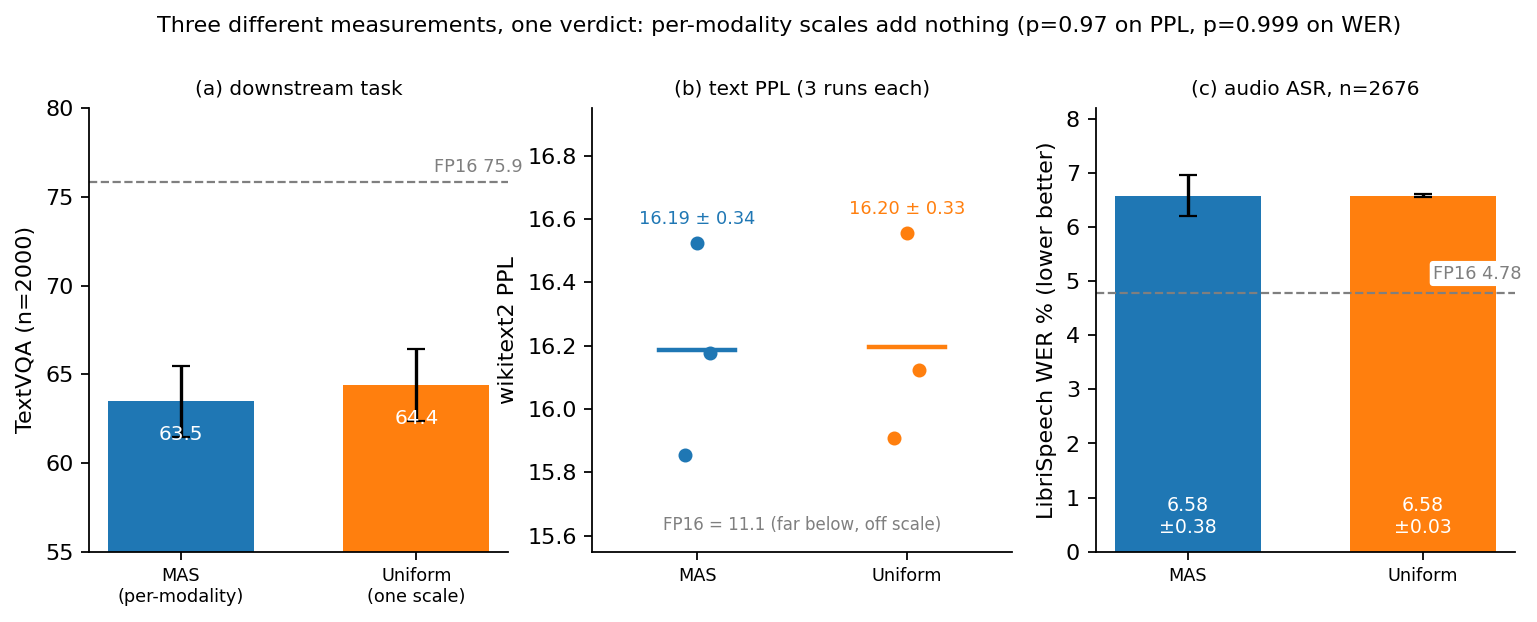
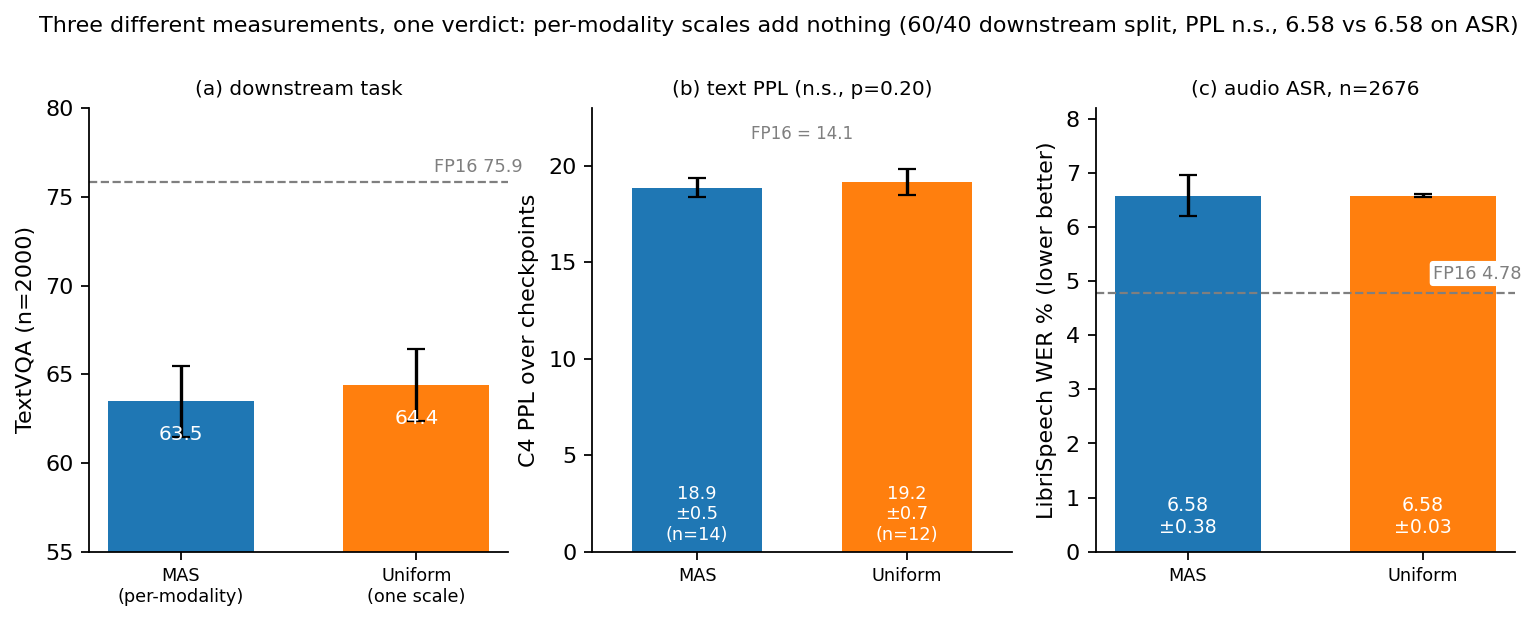
Slides: fix caliber mismatch on P4, add B200 figures, align PPL panel and attribution
Teammate caught fig2_main_bench.png being 8xRTX / ScienceQA 2017 while the talk uses
4xB200 / SQA 2000. Audit found two more instances of the same class of problem.

fig13_bench_b200.png (new, P4): FP16 / SQ / MAS / uniform on SQA 2000 + TextVQA 2000
  with 95% bootstrap CI, from results/bench_b200/boot_b200_4.json. Replaces fig2 on
  stage; fig2 stays as the report's caliber-B figure.
fig14_solver_textvqa.png (new, P7 money chart): same checkpoint, only the solver
  changes - MAS 63.5 -> 70.9 (GPTQ) -> 71.0 (+clip), uniform 64.4 -> 73.5, FP16 75.8,
  all doc_id<2000. Attribution drawn on the chart (GPTQ +7.4, clip +0.1).
fig8 panel (b) was the RTX 0.75-ratio matched PPL pair (16.19 vs 16.20, p=0.97) ->
  now B200 C4 over checkpoints (18.88 +- 0.50 n=14 vs 19.16 +- 0.69 n=12, p=0.20).

Attribution numbers corrected with them: on the 2000-item caliber GPTQ alone is +7.4
(not the 5000-item +7.2) and clip adds +0.1 (not 0.3). The earlier "clip +0.3" mixed
the two subsets; abstract and conclusion 4 in the written report are corrected.
Section 7.1 gains the B200 C4 tie numbers, which were previously only in the
reproducibility note.

Talk script gains a caliber audit table (which figure may go on stage, which may not)
and the self-check forbids fig2 on stage.

diff --git a/tools/make_slides_figs_b200.py b/tools/make_slides_figs_b200.py
@@ -1,0 +1,129 @@
+"""汇报 PPT 的"口径 A（4×B200、SQA 2000 + TextVQA 2000、doc_id<2000）"图。
+
+这些图与 docs/figs/fig2_main_bench.png（报告版，8×RTX、SQA 2017）**不是同一口径**，
+所以单独出，不要混用。
+
+  fig13_bench_b200.png     P4：复现（FP16 / SQ / MAS / 统一 scale，全量 2000 题 + 95% CI）
+  fig14_solver_textvqa.png P7 钱图：同一 checkpoint 上 RTN → GPTQ → +clip 的 TextVQA（含 FP16 线）
+
+数据来源（都已落盘，脚本只读不再训练）：
+  results/bench_b200/boot_b200_4.json      FP16 / SQ / MAS / 统一 scale
+  results/gptq/boot_solver_2000.json       RTN vs GPTQ vs clip（doc_id<2000）
+  results/gptq/bench/*/samples_*.jsonl     GPTQ-only 的逐样本（用于 2000 子集）
+
+用法: python tools/make_slides_figs_b200.py --outdir docs/figs
+"""
+import argparse
+import json
+import os
+
+import matplotlib
+
+matplotlib.use("Agg")
+import matplotlib.pyplot as plt  # noqa: E402
+import numpy as np  # noqa: E402
+
+plt.rcParams.update({"font.size": 10, "axes.spines.top": False, "axes.spines.right": False,
+                     "savefig.dpi": 160, "savefig.bbox": "tight"})
+C_MAIN, C_ALT, C_FP16, C_SOLVER = "#1f77b4", "#ff7f0e", "#7f7f7f", "#2ca02c"
+
+
+def acc_subset(path, lim=2000):
+    """从逐样本 jsonl 算 doc_id<lim 的准确率。"""
+    n = s = 0
+    for line in open(path):
+        d = json.loads(line)
+        if int(d["doc_id"]) >= lim:
+            continue
+        n += 1
+        s += float(d["exact_match"])
+    return 100 * s / n
+
+
+def fig13(outdir):
+    d = json.load(open("results/bench_b200/boot_b200_4.json"))
+    rows = [("fp16", "FP16", C_FP16), ("sq", "SmoothQuant\n+ RTN", "#d62728"),
+            ("mas", "MAS\n(per-modality)", C_MAIN), ("uni", "Uniform scale\n(one scale)", C_ALT)]
+    fig, ax = plt.subplots(1, 2, figsize=(9.6, 3.8))
+    for a, task, title in zip(ax, ("scienceqa_img", "textvqa_val"),
+                              ("ScienceQA-IMG (n=2000)", "TextVQA (n=2000)")):
+        t = d[task]
+        for i, (k, lab, c) in enumerate(rows):
+            v = t[k]
+            m, ci = 100 * v["acc"], [100 * x for x in v["ci"]]
+            a.bar(i, m, 0.62, color=c, yerr=[[m - ci[0]], [ci[1] - m]], capsize=4)
+            a.text(i, ci[0] - 1.5, f"{m:.1f}", ha="center", fontsize=9)
+        a.set_xticks(range(len(rows)))
+        a.set_xticklabels([r[1] for r in rows], fontsize=8)
+        a.set_title(title, fontsize=10)
+        a.set_ylim(min(100 * t[k]["ci"][0] for k, _, _ in rows) - 5, 86 if task == "scienceqa_img" else 82)
+        if task == "scienceqa_img":
+            a.set_ylabel("accuracy %")
+    fig.suptitle("W4A8 on 4×B200, full 2000-item test sets (paired bootstrap CI)",
+                 fontsize=10, y=1.03)
+    for a, lo in zip(ax, (68, 55)):
+        a.text(0.01, 0.02, f"y-axis from {lo}", transform=a.transAxes, fontsize=7, color="#777777")
+    fig.text(0.5, -0.06,
+             "MAS beats SmoothQuant by +3.4 / +2.4 (both significant)   ·   "
+             "but W4A8 is still behind FP16 by 2.2 / 12.4 (both significant)",
+             ha="center", fontsize=9)
+    p = os.path.join(outdir, "fig13_bench_b200.png")
+    fig.savefig(p)
+    plt.close(fig)
+    return p
+
+
+def fig14(outdir):
+    """P7 钱图：同一个 MAS checkpoint，只换权重求解器。全部 doc_id<2000。"""
+    boot = json.load(open("results/gptq/boot_solver_2000.json"))["textvqa_val"]
+    mas_gptq = acc_subset("results/gptq/bench/mas_gptq/samples_textvqa_val.jsonl")
+    fp16 = 100 * boot["fp16"]["acc"]
+    mas_rtn = 100 * boot["mas_rtn"]["acc"]
+    mas_clip = 100 * boot["mas_clip"]["acc"]
+    uni_rtn = 100 * boot["uni_rtn"]["acc"]
+    uni_clip = 100 * boot["uni_clip"]["acc"]
+
+    bars = [("MAS\n+ RTN", mas_rtn, "#9fc0dc"), ("MAS\n+ GPTQ", mas_gptq, C_SOLVER),
+            ("MAS\n+ GPTQ\n+ clip", mas_clip, "#1a7a1a"),
+            ("Uniform\n+ RTN", uni_rtn, "#f7c39a"), ("Uniform\n+ GPTQ\n+ clip", uni_clip, "#d9600c")]
+    fig, ax = plt.subplots(figsize=(8.6, 4.0))
+    for i, (lab, m, c) in enumerate(bars):
+        ax.bar(i, m, 0.64, color=c, edgecolor="none")
+        ax.text(i, m + 0.7, f"{m:.1f}", ha="center", fontsize=9.5)
+    ax.axhline(fp16, ls="--", lw=1, color="k")
+    ax.text(4.45, fp16 + 0.6, f"FP16 {fp16:.1f}", ha="right", fontsize=8.5)
+    ax.set_xticks(range(len(bars)))
+    ax.set_xticklabels([b[0] for b in bars], fontsize=8.5)
+    ax.set_ylim(55, 82)
+    ax.set_ylabel("TextVQA accuracy % (doc_id < 2000)")
+    # 归因：GPTQ 是主贡献，clip 几乎不贡献（箭头画在柱子上方，不压柱）
+    ytop = mas_gptq + 4.2
+    ax.annotate("", xy=(1, ytop), xytext=(0, ytop),
+                arrowprops=dict(arrowstyle="-|>", color=C_SOLVER, lw=1.6))
+    ax.text(0.5, ytop + 0.8, f"GPTQ {mas_gptq - mas_rtn:+.1f}", ha="center",
+            color=C_SOLVER, fontsize=11, weight="bold")
+    ax.annotate("", xy=(2, ytop), xytext=(1, ytop),
+                arrowprops=dict(arrowstyle="-|>", color="#555555", lw=1.2))
+    ax.text(1.5, ytop - 1.6, f"clip {mas_clip - mas_gptq:+.1f}", ha="center", fontsize=9, color="#333333")
+    fig.text(0.5, -0.05,
+             f"MAS: {mas_rtn:.1f} → {mas_clip:.1f}   (GPTQ {mas_gptq - mas_rtn:+.1f}, clip {mas_clip - mas_gptq:+.1f})"
+             f"   ·   gap to FP16 {fp16 - mas_rtn:.1f} → {fp16 - mas_clip:.1f}"
+             f"   ·   y-axis from 55",
+             ha="center", fontsize=8.8)
+    ax.set_title("Same checkpoint, only the weight solver changes — GPTQ is where the gain comes from",
+                 fontsize=10)
+    p = os.path.join(outdir, "fig14_solver_textvqa.png")
+    fig.savefig(p)
+    plt.close(fig)
+    return p, dict(mas_rtn=mas_rtn, mas_gptq=mas_gptq, mas_clip=mas_clip, uni_rtn=uni_rtn,
+                   uni_clip=uni_clip, fp16=fp16)
+
+
+if __name__ == "__main__":
+    ap = argparse.ArgumentParser()
+    ap.add_argument("--outdir", default="docs/figs")
+    a = ap.parse_args()
+    os.makedirs(a.outdir, exist_ok=True)
+    print(fig13(a.outdir))
+    p, nums = fig14(a.outdir)
+    print(p, {k: round(v, 2) for k, v in nums.items()})

diff --git a/tools/make_slides_figs.py b/tools/make_slides_figs.py
@@ -85,22 +85,19 @@ def fig8(outdir):
     a.set_ylabel("TextVQA (n=2000)")
     a.set_title("(a) downstream task", fontsize=9)
 
-    # (b) wikitext2 PPL，逐次重复
+    # (b) C4 PPL，B200 口径（14 vs 12 个 checkpoint，p=0.20）
     a = ax[1]
-    runs = {"MAS": [15.855, 16.5254, 16.1764], "Uniform": [15.9094, 16.5555, 16.1219]}
-    for i, (k, vs) in enumerate(runs.items()):
-        c = C_MAIN if i == 0 else C_ALT
-        a.scatter(np.full(len(vs), i) + np.linspace(-0.06, 0.06, len(vs)), vs, s=28, color=c, zorder=3)
-        a.plot([i - 0.18, i + 0.18], [np.mean(vs)] * 2, color=c, lw=2)
-        a.text(i, max(vs) + 0.06, f"{np.mean(vs):.2f} \u00b1 {np.std(vs, ddof=1):.2f}",
-               ha="center", fontsize=8, color=c)
+    rows = [("MAS", 18.88, 0.50, 14, C_MAIN), ("Uniform", 19.16, 0.69, 12, C_ALT)]
+    for i, (lab, m, sd, n, c) in enumerate(rows):
+        a.bar(i, m, 0.62, color=c, yerr=sd, capsize=4)
+        a.text(i, 0.6, f"{m:.1f}\n\u00b1{sd:.1f}\n(n={n})", ha="center", color="white", fontsize=8)
     a.set_xticks([0, 1])
     a.set_xticklabels(["MAS", "Uniform"], fontsize=8)
     a.set_xlim(-0.5, 1.5)
-    a.set_ylim(15.55, 16.95)
-    a.set_ylabel("wikitext2 PPL")
-    a.set_title("(b) text PPL (3 runs each)", fontsize=9)
-    a.text(0.5, 15.62, "FP16 = 11.1 (far below, off scale)", ha="center", fontsize=7.5, color=C_FP16)
+    a.set_ylim(0, 23)
+    a.set_ylabel("C4 PPL over checkpoints")
+    a.set_title("(b) text PPL (n.s., p=0.20)", fontsize=9)
+    a.text(0.5, 21.4, "FP16 = 14.1", ha="center", fontsize=7.5, color=C_FP16)
 
     # (c) 音频 WER
     a = ax[2]
@@ -118,7 +115,7 @@ def fig8(outdir):
     a.set_title("(c) audio ASR, n=2676", fontsize=9)
 
     fig.suptitle("Three different measurements, one verdict: per-modality scales add nothing "
-                 "(p=0.97 on PPL, p=0.999 on WER)", fontsize=10, y=1.04)
+                 "(60/40 downstream split, PPL n.s., 6.58 vs 6.58 on ASR)", fontsize=10, y=1.04)
     p = os.path.join(outdir, "fig8_three_ties.png")
     fig.savefig(p)
     plt.close(fig)

diff --git a/tools/acc_from_samples.py b/tools/acc_from_samples.py
@@ -1,0 +1,32 @@
+"""从逐样本 jsonl 直接算某个配置在 TextVQA/SQA 上的准确率（同一批 doc_id、同一口径）。
+
+用法: python tools/acc_from_samples.py results/gptq/bench/mas_gptq/samples_textvqa_val.jsonl
+"""
+import json
+import sys
+
+
+def score(x):
+    for k in ("exact_match", "acc", "score", "correct", "accuracy"):
+        if k in x:
+            v = x[k]
+            if isinstance(v, bool):
+                return float(v)
+            if isinstance(v, (int, float)):
+                return float(v)
+            if isinstance(v, (list, tuple)) and v and isinstance(v[0], (int, float, bool)):
+                return float(v[0])
+            if isinstance(v, str):
+                try:
+                    return float(json.loads(v)[0])
+                except Exception:
+                    return float(v) if v.replace(".", "").isdigit() else 0.0
+    return 0.0
+
+
+for p in sys.argv[1:]:
+    n = s = 0
+    for line in open(p):
+        n += 1
+        s += score(json.loads(line))
+    print(f"{p}\tn={n}\tacc={100 * s / n:.2f}")

diff --git a/docs/汇报文稿_8分钟.md b/docs/汇报文稿_8分钟.md
@@ -99,7 +99,7 @@
 ### 2.0 页面视觉清单（先看这张表，再看逐页讲稿）
 
 > 原则：**一页 = 一张图 + 一行不超过 15 字的字**。数字只留 1~2 个、且画在图上，不写进正文。
-> 表格一律不上台（P4 由 `fig2` 替代，P5 由 `fig8` 替代），表格放备用页或手卡。
+> 表格一律不上台（P4 由 `fig13` 替代，P5 由 `fig8` 替代），表格放备用页或手卡。
 >
 > 图都在 `docs/figs/`，可直接拖进 PPT；生成脚本 `tools/make_slides_figs.py` + `tools/make_figures.py`。
 
@@ -108,17 +108,39 @@
 | P1 | 无（纯文字，结论前置） | `瓶颈不在「分模态」` | 25s |
 | P2 | `fig7_why_one_scale.png` | `离群通道不是同一批 → 一套缩放迁就不了两边` | 45s |
 | P3 | 手绘两栏（MAS / CMC），不出图 | `两招：分模态平滑 · 低秩补偿` | 40s |
-| P4 | `fig2_main_bench.png` | `复现成功，但没追平 FP16` | 30s |
+| P4 | **`fig13_bench_b200.png`** | `复现成功，但没追平 FP16` | 30s |
 | P5 | **`fig8_three_ties.png`** | `三处测量，同一个结论` | 50s |
 | P6 | **`fig12_calib_b200.png`** + 右下小图 `fig10_audio_calib.png` | `要的是多样性，不是某一种模态的比例` | 55s |
-| P7 | `fig11_two_knobs.png` → `fig5_solver_ppl.png` → `fig6_calib_gptq.png` | `两个旋钮，+7.5 点` | 155s |
+| P7 | `fig11_two_knobs.png` → **`fig14_solver_textvqa.png`** → `fig6_calib_gptq.png` | `两个旋钮，+7.5 点` | 155s |
 | P8 | 无（三行清单，每行一个数字） | `其余三条` | 40s |
 | P9 | 无（大字 + 一句部署建议） | `一份权重、零旁路` | 40s |
+
+**⚠ 口径审计（每张图都要对得上"口径 A = 4×B200、SQA 2000 + TextVQA 2000"）**
+
+| 图 | 口径 | 能不能上台 |
+|---|---|---|
+| `fig13_bench_b200.png` | B200，SQA 2000 / TVQA 2000 | **能（P4 就用这张）** |
+| ~~`fig2_main_bench.png`~~ | **8×RTX，SQA 2017** | **不能**，只属于报告 §3（口径 B）；与 P4 的数字差 0.2~0.5 点，会当场对不上 |
+| `fig8_three_ties.png` | 面板 a、c 是 B200 / Omni；面板 b 已改成 B200 C4 PPL | **能** |
+| `fig12_calib_b200.png` | B200（19.1→17.4 / 20.4→18.9） | **能** |
+| `fig14_solver_textvqa.png` | B200，TextVQA `doc_id<2000`（63.5→70.9→71.0） | **能（P7 钱图）** |
+| `fig5_solver_ppl.png`、`fig6_calib_gptq.png` | B200 的 GPTQ 实验，C4 PPL（FP16 锚点 14.05 跨机器逐位一致） | 能，但**只能讲 PPL，不要和 benchmark 的数字并列念** |
+| `fig7_why_one_scale.png` | 模型的激活统计（与机器基本无关，FP16 前向跨机器差 5e-5） | 能 |
+| `fig1_calib_ratio.png`、`fig3_breakdown.png`、`fig4_sqnr.png` | **RTX 口径**（fig1 是比例扫描曲线、fig3 是 SQA 2017） | **不上台**，备用/追问 |
+| `fig9`、`fig10` | Omni / LibriSpeech（另一个模型，单独口径） | 能，但**不与 VL 的数字混着念** |
+
+> 一句话口径纪律：**P4 / P5 / P7 只念 B200 的数字；音频只说"另一个模型上也成立"，不报跨模型的差。**
 
 **P6 用 `fig12`，不用 `fig1`**：`fig1` 是报告版（8×RTX 机器、7 个比例点，wikitext 16.2 那个平台），
 而本稿 P6 口播用的是 B200 口径（19.1 → 17.4），两个数字对不上会被当场发现。
 `fig12_calib_b200.png` 就是同一结论的 B200 版本（原校准 vs 混合校准，各带 std），**台上只用它**；
 `fig1` 留作报告插图与"比例扫描是宽平台"的追问材料。
+
+**页面图（2026-11-26 加，B200 口径）**
+- `fig13_bench_b200.png`：P4 用。FP16 / SmoothQuant / MAS / 统一 scale，SQA 2000 + TextVQA 2000，带 95% CI。
+  **替代 `fig2_main_bench.png`**（那张是 8×RTX + SQA 2017，属报告口径 B）。
+- `fig14_solver_textvqa.png`：P7 钱图。同一个 checkpoint 只换求解器：MAS 63.5 → +GPTQ 70.9 → +clip 71.0，
+  另配 uniform 64.4 → 73.5，FP16 线 75.8。归因直接画在图上（GPTQ +7.4、clip +0.1）。
 
 **三张新图（2026-11-25 加）**
 - `fig7_why_one_scale.png`：真实 `act_scales`，第 6 层 `mlp.up_proj` 的逐通道最大激活。
@@ -192,8 +214,8 @@
 
 ### P4 · 复现（30s）
 
-**页面**：整页放 **`fig2_main_bench.png`**（左 ScienceQA、右 TextVQA，带 95% CI）。
-页脚一行字：`复现成功，但没追平 FP16`。**上台不要放表格。**
+**页面**：整页放 **`fig13_bench_b200.png`**（B200 口径，左 ScienceQA 2000、右 TextVQA 2000，带 95% CI）。
+页脚一行字：`复现成功，但没追平 FP16`。**上台不要放表格，也不要用报告里的 `fig2`（那是另一台机器、SQA 2017 题）。**
 
 **口播**：
 
@@ -266,8 +288,12 @@
 `TextVQA 63.5 → 71.0（+7.5）· 与 FP16 差 12.4 → 4.9 · 格式不变、推理零开销`
 （fig11 底部已经画好这一条，PPT 上不必再重复写一遍。）
 
-**切图节奏**：讲"两个旋钮"时停在 `fig11_two_knobs.png`；讲完码字侧三级台阶后切 `fig5_solver_ppl.png`
-（各平滑方式 × 求解器的 C4 PPL）；最后收口切 `fig6_calib_gptq.png`（原校准 vs 混合校准下 GPTQ 的效果）。
+**切图节奏**：讲"两个旋钮"时停在 `fig11_two_knobs.png`；说完码字侧三级台阶后切 **`fig14_solver_textvqa.png`**
+（同一个 checkpoint 只换求解器：63.5 → 70.9 → 71.0，FP16 线在 75.8）；最后收口切 `fig6_calib_gptq.png`
+（原校准 vs 混合校准下 GPTQ 的效果）。
+
+> `fig5_solver_ppl.png`（各平滑方式 × 求解器的 C4 PPL）**改成备用**：它讲的是"换求解器不改变平滑方式的排序"，
+> 属于收口用的旁证，不是钱图；时间紧就跳过，被问"是不是只在 TextVQA 上有效"再翻出来。
 
 **口播（按这个顺序，这是全稿最重要的一段）**：
 
@@ -286,8 +312,8 @@
 >
 > 所以两个旋钮各有各的工具：**步长交给 clip，码字交给 GPTQ。**
 >
-> 结果是 TextVQA 从 63.5 到 71.0。**这 7.5 点是 GPTQ 自己给出的**——单独上 GPTQ 就有 7.2（全量 5000 题）；
-> clip 再补不到 0.3 点。**cd 我们做了、也留了开关，但下游没有一致收益，所以默认关闭**：
+> 结果是 TextVQA 从 63.5 到 71.0。**这 7.5 点是 GPTQ 自己给出的**——单独上 GPTQ 就到 70.9（+7.4）；
+> clip 只再加 0.1。**cd 我们做了、也留了开关，但下游没有一致收益，所以默认关闭**：
 > 它的价值是把码字这一侧推到 1-opt，告诉我们"再往上改码字不值"，**不是它带来了这些点**。
 > 与 FP16 的差距从 12.4 缩到 4.9，格式没变、推理零开销。
 >
@@ -431,7 +457,8 @@ SmoothQuant / RTN 直接崩。所以 P9 **不主动列未完成清单**，收口
 **两件千万别做的事**：
 1. 把 cd 讲成「我们试了一个新算法，效果一般」——它的价值是**结构性的**：把码字侧推到 1-opt，
    证明"再往上（2-opt）不值"，不是下游收益。
-2. **把 +7.5 说成 cd 的功劳**。实测：GPTQ 单独 +7.2（全量 5000 题），+clip 到 +7.5，cd 下游无一致收益、默认关。
+2. **把 +7.5 说成 cd 的功劳**。实测（2000 题口径）：GPTQ 单独 +7.4，clip 再 +0.1，cd 下游无一致收益、默认关
+   （5000 题口径是 +7.2 / +0.5，结论相同）。
    听众若从"RTN → GPTQ → +cd"的台阶顺势以为 7.5 是最后一级给的，一追问就崩。
 
 正确说法是「**RTN 到 GPTQ 是质变，clip 是补刀，GPTQ 到 1-opt 是收尾，再往上就不值了**」。
@@ -484,8 +511,8 @@ SmoothQuant / RTN 直接崩。所以 P9 **不主动列未完成清单**，收口
 | Q4 | **GPTQ 不是已有方法吗？创新在哪？** | 见 §4.6。**两个自由度的框架 + 三个多模态设计问题 + 反直觉结论（原校准上 9/9 更差）。** |
 | Q5 | **为什么只用 3B？** | **官方示例脚本默认就是 3B**。3B 单卡一轮 5~7 分钟，我们才能做一百多次独立训练来支撑重复与显著性检验；7B 会降到十几次，做不了检验。代价是外推受限，写在局限里。 |
 | Q6 | **为什么只有两个 benchmark？** | **评测链路限制**：MMMU 需要外部 judge，OCRBench 的聚合指标在现有调用路径下拿不到。**我们选的是「两个但全量 + 配对检验」，不是「多但只跑 10%」。** |
-| **Q7** | **cd 有没有端到端收益？** | **没有一致收益，我们默认不开**（PPL 上也没稳定变好）。价值在结构上：它把码字这一侧推到 1-opt，说明**再往上（2-opt）就不值了**。**+7.5 里 7.2 是 GPTQ 给的**，clip 补不到 0.3，cd 的贡献是 0。 |
-| Q7c | **那 +7.5 到底是谁给的？** | **GPTQ**。同一 checkpoint、同一校准集，只把 RTN 换成 GPTQ，TextVQA 63.5 → 70.9（+7.2，全量 5000 题）；再加 clip 到 71.0（+7.5）；cd 在这个基础上没有再增益。 |
+| **Q7** | **cd 有没有端到端收益？** | **没有一致收益，我们默认不开**（PPL 上也没稳定变好）。价值在结构上：它把码字这一侧推到 1-opt，说明**再往上（2-opt）就不值了**。**+7.5 里 7.4 是 GPTQ 给的**，clip 加 0.1，cd 的贡献是 0。 |
+| Q7c | **那 +7.5 到底是谁给的？** | **GPTQ**。同一 checkpoint、同一校准集，只把 RTN 换成 GPTQ，TextVQA 63.5 → 70.9（**+7.4**）；再加 clip 到 71.0（+0.1，合计 +7.5）；cd 在这个基础上没有再增益。换 5000 题口径做同一实验是 +7.2（62.3 → 69.6），结论一致。 |
 | Q7b | **你们有过失败的改进吗？** | **有**：我们做过 CMC 的按层自适应秩，只在 PPL 上验证。后来补下游才发现 PPL 根本不经过视觉旁路；实测它显著更差，已经撤回，理由写在报告里。 |
 | Q8 | **NVFP4 下为什么 GPTQ 没用？** | **16 元素块缩放已经把权重误差吸收掉了**，RTN 本身就接近 FP16。所以这套求解器改进针对的是 INT 的 per-channel 粗粒度格点。 |
 | Q9 | **能推广到别的模型吗？** | **跨模态验证过，跨规模没验证**：换到 Qwen2.5-Omni-3B 的音频上，归因（打平）、校准（文本占比一改就有收益）、求解器（与 FP16 只差 0.4 点）三条都成立；7B 没测。 |
@@ -522,10 +549,10 @@ SmoothQuant / RTN 直接崩。所以 P9 **不主动列未完成清单**，收口
 - [ ] P4 → P5 的转场有一句「那 MAS 比 SmoothQuant 高的这 3 点多，到底哪儿来的」，**不要跳过**
 - [ ] P7 开场先说「只有两个自由度」，再分左右两栏，**顺序不要倒**
 - [ ] P7 的台阶是三级（RTN / GPTQ / +cd），末句落在「再往上不值，我们停在 1-opt」
-- [ ] P7 **明确说出**：+7.5 里 GPTQ 占 7.2，cd 默认关闭、下游无一致收益（别让台阶图替你背这个账）
+- [ ] P7 **明确说出**：+7.5 里 GPTQ 占 7.4、clip 占 0.1，cd 默认关闭、下游无一致收益（别让台阶图替你背这个账）
 - [ ] 全稿没有「NP-hard，所以没有精确解」这种说法（正确说法：规模上精确求解不现实）
 - [ ] P7 结果条与 FP16 的差距是 **4.9**（不是 4.0；4.0 是"只用文本尺度的单权重部署"那个配置）
-- [ ] **每页只有一张图 + 一行 ≤15 字的字**；P4 / P5 的表格已经换成 `fig2` / `fig8`，台上不要出现表格
+- [ ] **每页只有一张图 + 一行 ≤15 字的字**；P4 / P5 已换成 `fig13` / `fig8`，台上不要出现表格；**`fig2_main_bench.png` 不许上台**（8×RTX、SQA 2017 口径）
 - [ ] P7 的骨架图是 `fig11_two_knobs.png`（不是 ASCII 截图），切图顺序 fig11 → fig5 → fig6
 - [ ] 所有图在投影仪分辨率下能看清（`docs/figs/` 里都是 160 dpi 导出，字号 ≥8pt）
 - [ ] 计时彩排至少 2 遍，**每页单独掐表**：P4 应在 2:20 讲完，P7 应在 6:40 讲完
